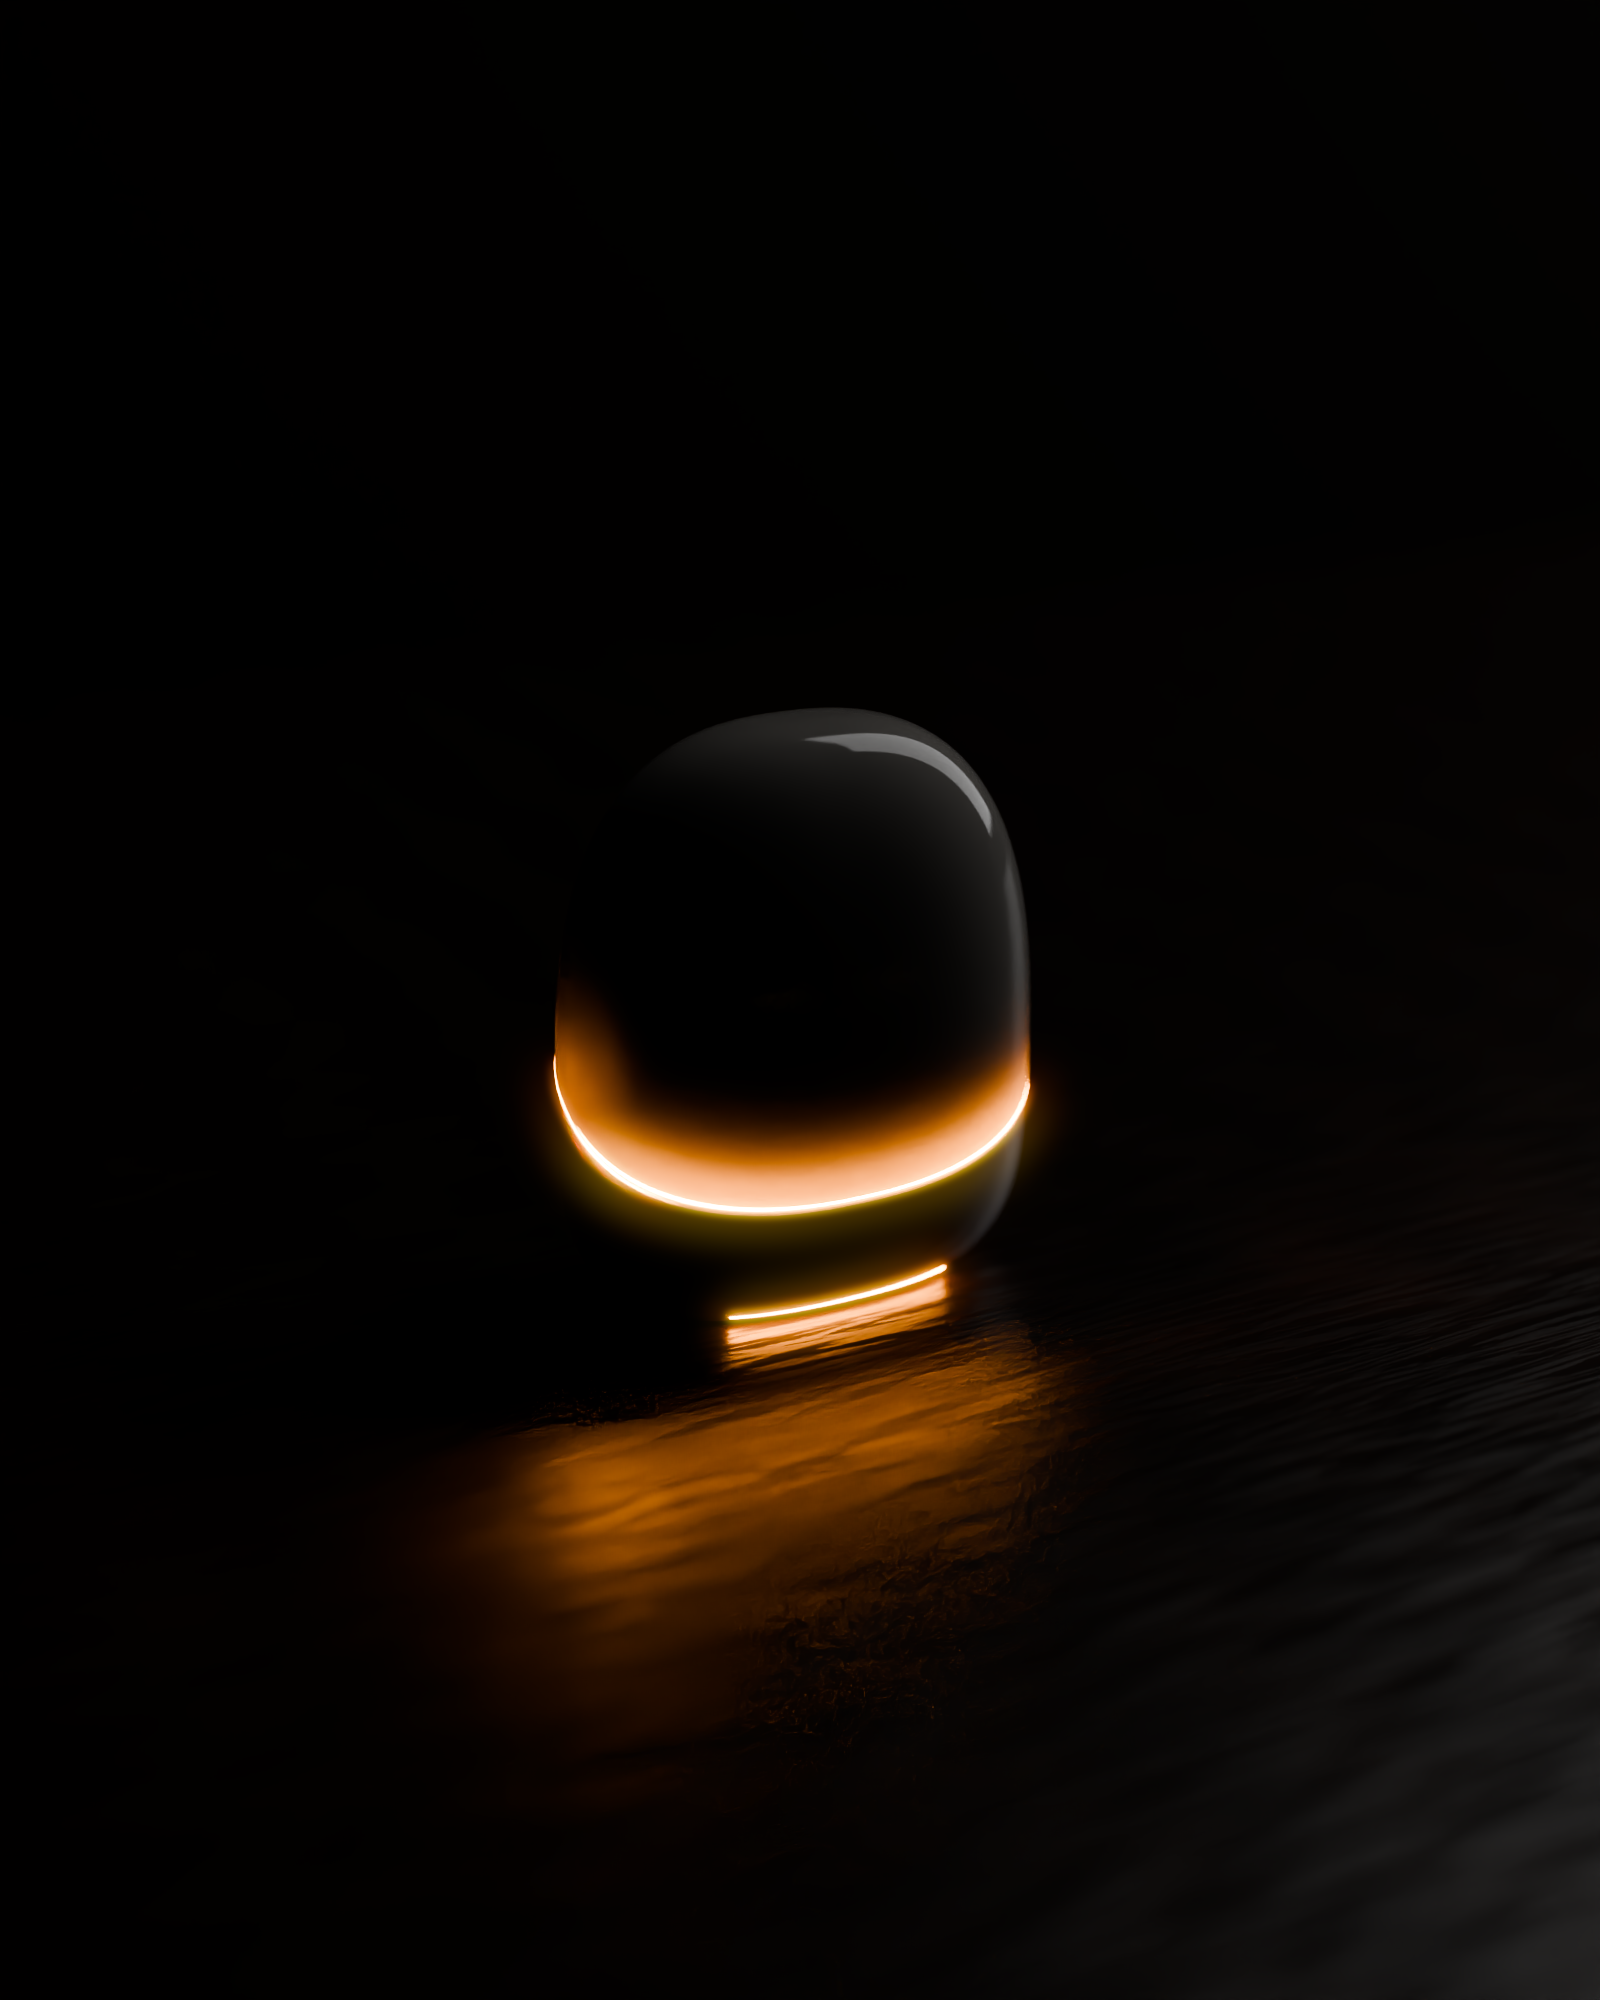
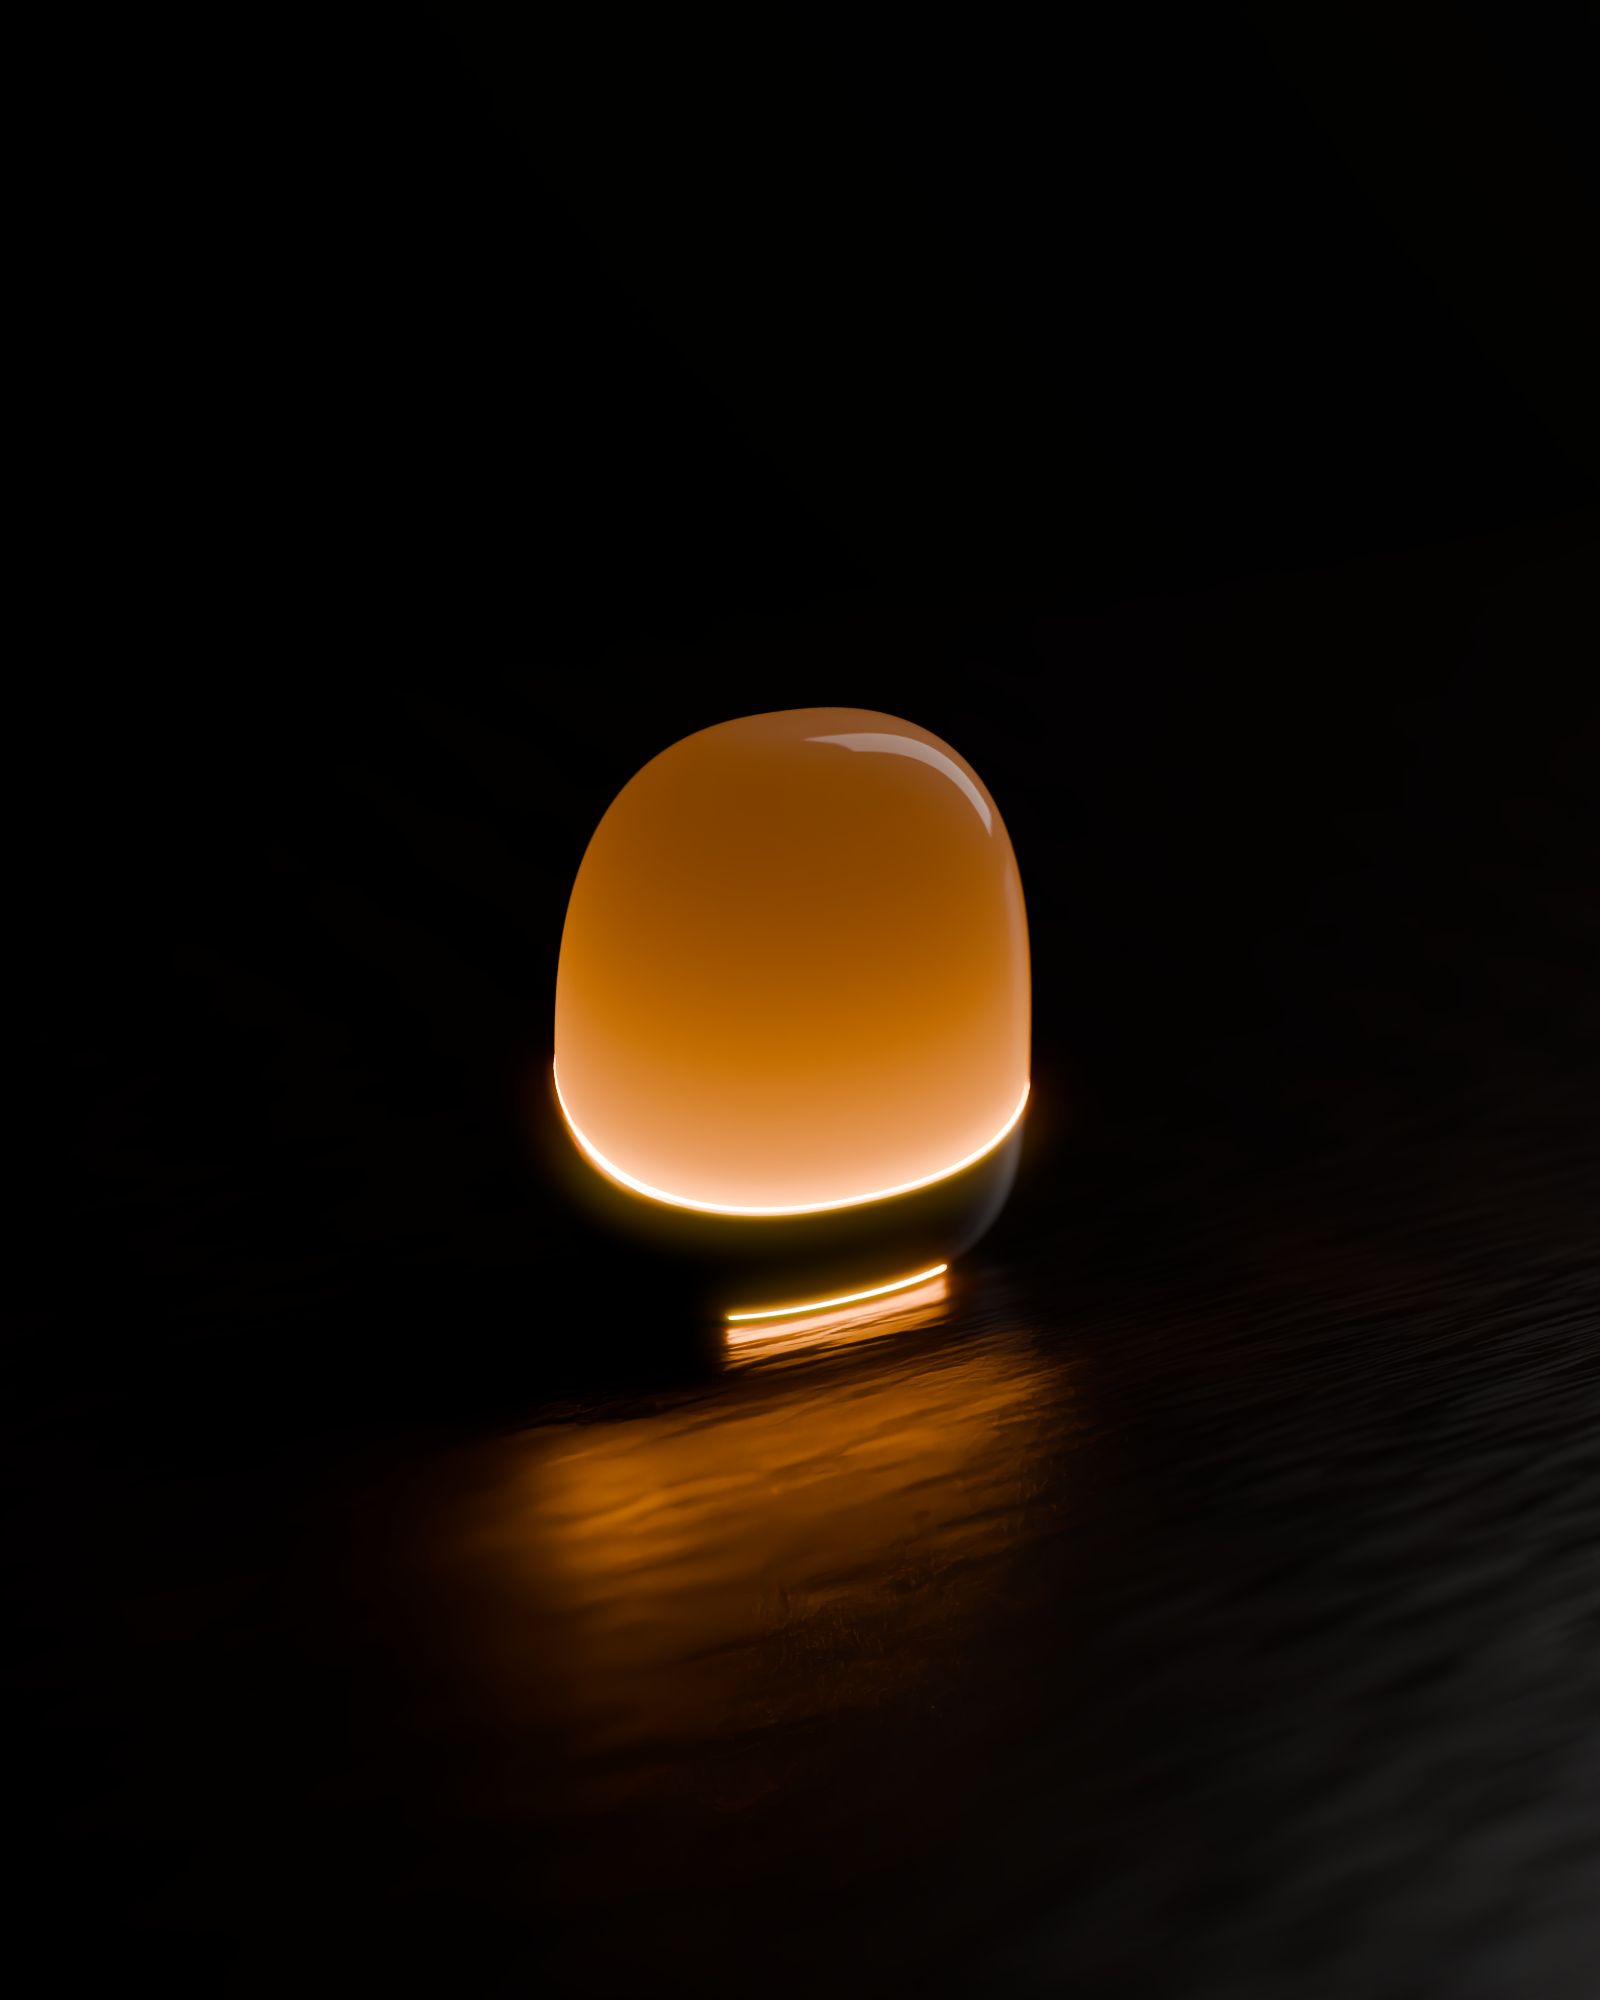
Renders v5: refined hero, OU day/closed, hand, COCON, box (WIP)
Claude-Session: https://claude.ai/code/session_01Ck8guzeJBknbgPsaU2FiFA

Changed region(s): [[0.3438, 0.341, 0.6562, 0.589]]

diff --git a/micul-smecher/renders/v5/src/soul_v5.py b/micul-smecher/renders/v5/src/soul_v5.py
@@ -566,7 +566,7 @@ def mat_led(name, strength, temp=2200.0):
     return m
 
 
-def mat_ou_lid(name, outer=True, dark=False, night=False):
+def mat_ou_lid(name, outer=True, dark=False, night=False, glow=0.0):
     """Frosted PC lid: gloss outside (r 0.05), VDI-18 frost inside (r 0.45), Transmission 0.9, IOR 1.58; a milky
     volume scatter in the 2.2 mm wall gives the frosted-PC diffusion (and the lantern glow when closed)."""
     m, nt, p, out = new_mat(name)
@@ -589,6 +589,38 @@ def mat_ou_lid(name, outer=True, dark=False, night=False):
     nt.links.new(vs.outputs[0], add.inputs[0])
     nt.links.new(va.outputs[0], add.inputs[1])
     nt.links.new(add.outputs[0], out.inputs['Volume'])
+    if glow > 0:
+        # closed at night the frosted wall is an edge-lit light guide: the halo LEDs feed its rim, the glow fades
+        # upward (SOUL fills the lid, so no light reaches the lid's front from inside)
+        tc = _tc(nt)
+        dp = nt.nodes.new('ShaderNodeVectorMath')
+        dp.operation = 'DOT_PRODUCT'
+        dp.inputs[1].default_value = tuple(PART_N)
+        nt.links.new(tc.outputs['Object'], dp.inputs[0])
+        off = nt.nodes.new('ShaderNodeMath')              # distance above the parting plane (m)
+        off.operation = 'SUBTRACT'
+        off.inputs[1].default_value = float(np.dot(PART_N, [0, -21.0 * MM, 18.0 * MM]))
+        nt.links.new(dp.outputs['Value'], off.inputs[0])
+        sc_ = nt.nodes.new('ShaderNodeMath')
+        sc_.operation = 'MULTIPLY'
+        sc_.inputs[1].default_value = -1.0 / 0.014
+        nt.links.new(off.outputs[0], sc_.inputs[0])
+        ex = nt.nodes.new('ShaderNodeMath')
+        ex.operation = 'EXPONENT'
+        nt.links.new(sc_.outputs[0], ex.inputs[0])
+        base = nt.nodes.new('ShaderNodeMath')
+        base.operation = 'MULTIPLY_ADD'
+        base.inputs[1].default_value = 0.92
+        base.inputs[2].default_value = 0.08
+        nt.links.new(ex.outputs[0], base.inputs[0])
+        st = nt.nodes.new('ShaderNodeMath')
+        st.operation = 'MULTIPLY'
+        st.inputs[1].default_value = glow
+        nt.links.new(base.outputs[0], st.inputs[0])
+        bb = nt.nodes.new('ShaderNodeBlackbody')
+        bb.inputs['Temperature'].default_value = 2200.0
+        nt.links.new(bb.outputs['Color'], p.inputs['Emission Color'])
+        nt.links.new(st.outputs[0], p.inputs['Emission Strength'])
     return m
 
 
@@ -1288,8 +1320,9 @@ def build_ou(tag, cw='perla', lid_open=True, night=False, strip=None, halo=None,
                'lapis': mat_lapis('liner_lapis'),
                'chihlimbar': mat_amber('liner_amber'),
                'fum': mat_solid_sole('liner_smoke', '#6E6E74', engrave=False)}[cw]
-    lo = mat_ou_lid('ou_lid_out', True, dark, night)
-    li = mat_ou_lid('ou_lid_in', False, dark, night)
+    lg = TUNE.get('lantern', 0.4) if (night and not lid_open) else 0.0
+    lo = mat_ou_lid('ou_lid_out', True, dark, night, lg)
+    li = mat_ou_lid('ou_lid_in', False, dark, night, lg)
     gd = gap_dark()
     cup, rc, lid, rl = ou_meshes(tag)
     for ob, roles in ((cup, rc), (lid, rl)):
@@ -1334,7 +1367,7 @@ def build_ou(tag, cw='perla', lid_open=True, night=False, strip=None, halo=None,
     if night and not lid_open:
         # closed at night: the whole egg is the lantern -- the rear strip fills the closed cavity (SOUL is asleep,
         # its face is inside and unseen) so the frosted lid glows, not just the halo line
-        s_str *= TUNE.get('closed_strip_k', 4.0)
+        s_str *= TUNE.get('closed_strip_k', 1.0)
     rear = lip_i[lip_i[:, 1] > 1.0 + 3.0]
     rear = rear[np.argsort(np.arctan2(rear[:, 1] - 1.0, rear[:, 0]))]
     cen = np.array([0.0, 1.0])
@@ -1877,6 +1910,7 @@ def shot_hero():
     pose_soul(s, (0, 0, 0), yaw=-8.0)
     # brief: OU at (-95, +120), yaw +20 -- that is 17 deg outside the frame of the -24 deg camera (the rev. moved
     # the camera to -x); mirrored to (+95, +120), yaw -20 so it stays soft in the background, behind-right
+    TUNE['lid_tr'] = TUNE.get('hero_lid_tr', 0.15)    # the out-of-focus lid interior reads lighter, not as a taupe blob
     ou = build_ou('bg', 'perla', lid_open=True, night=False)
     ou.location = V((95, 120, 0.5))
     ou.rotation_euler = (0, 0, R(-20.0))
